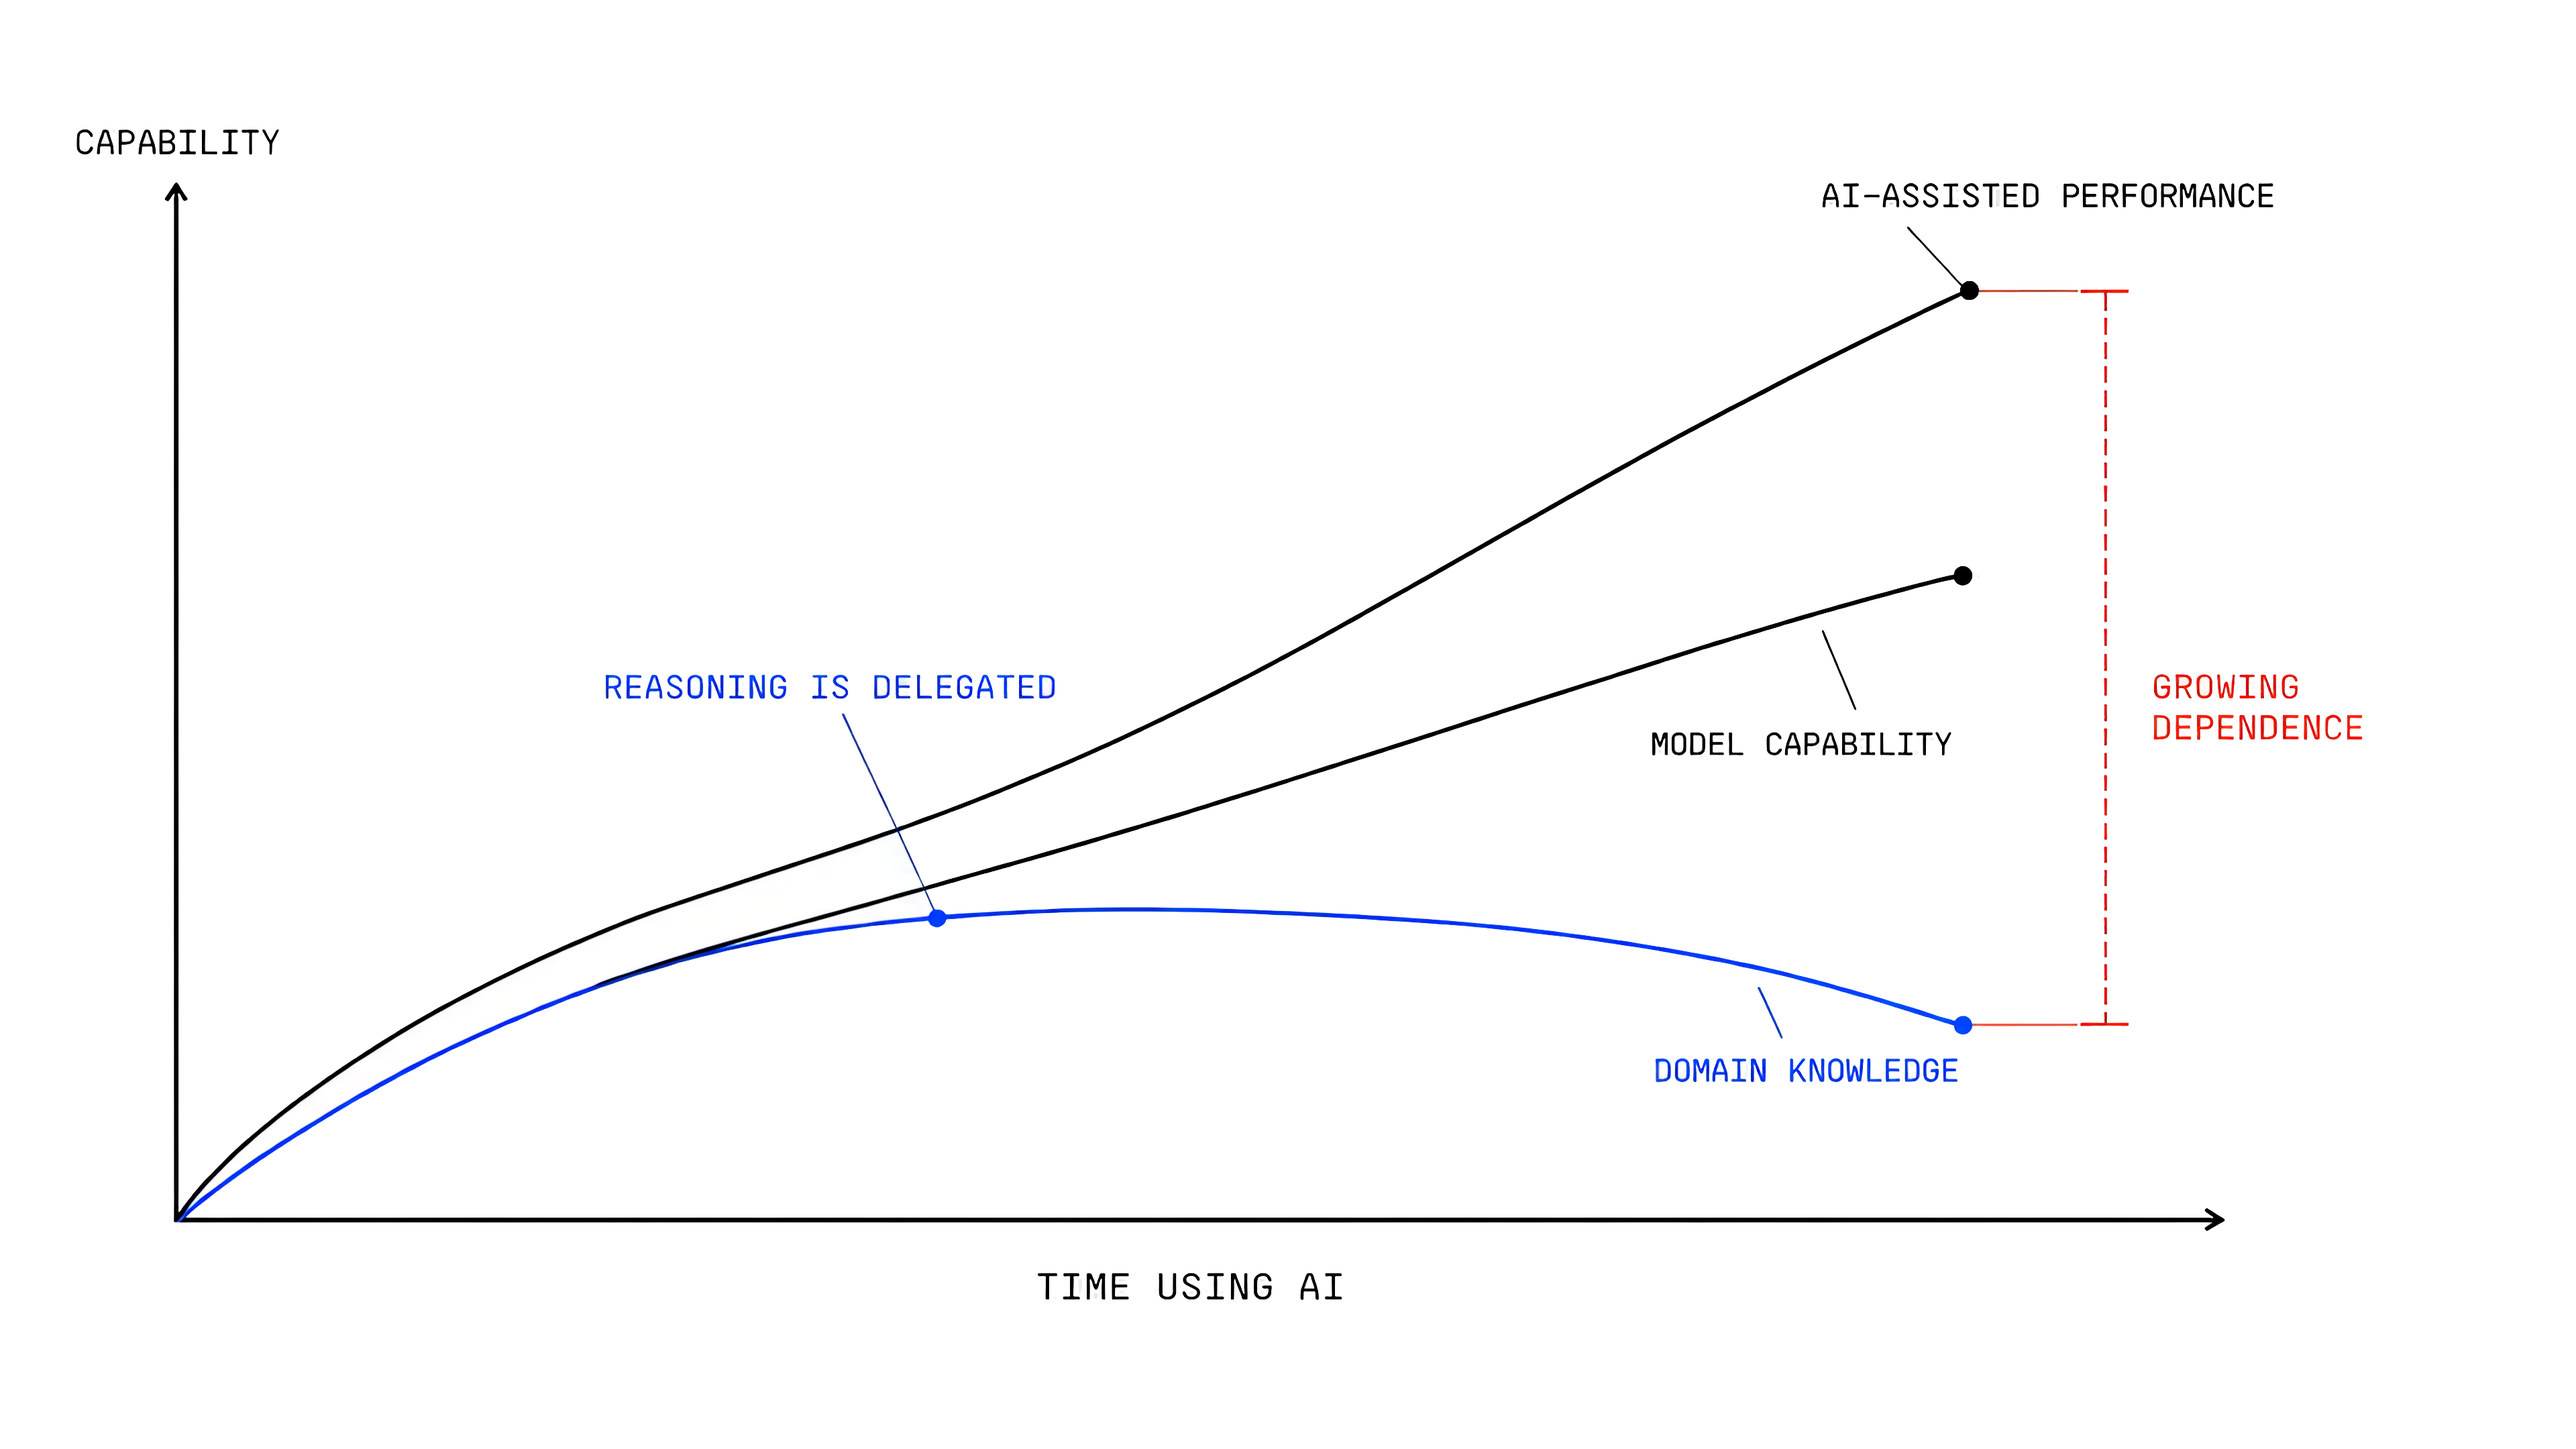
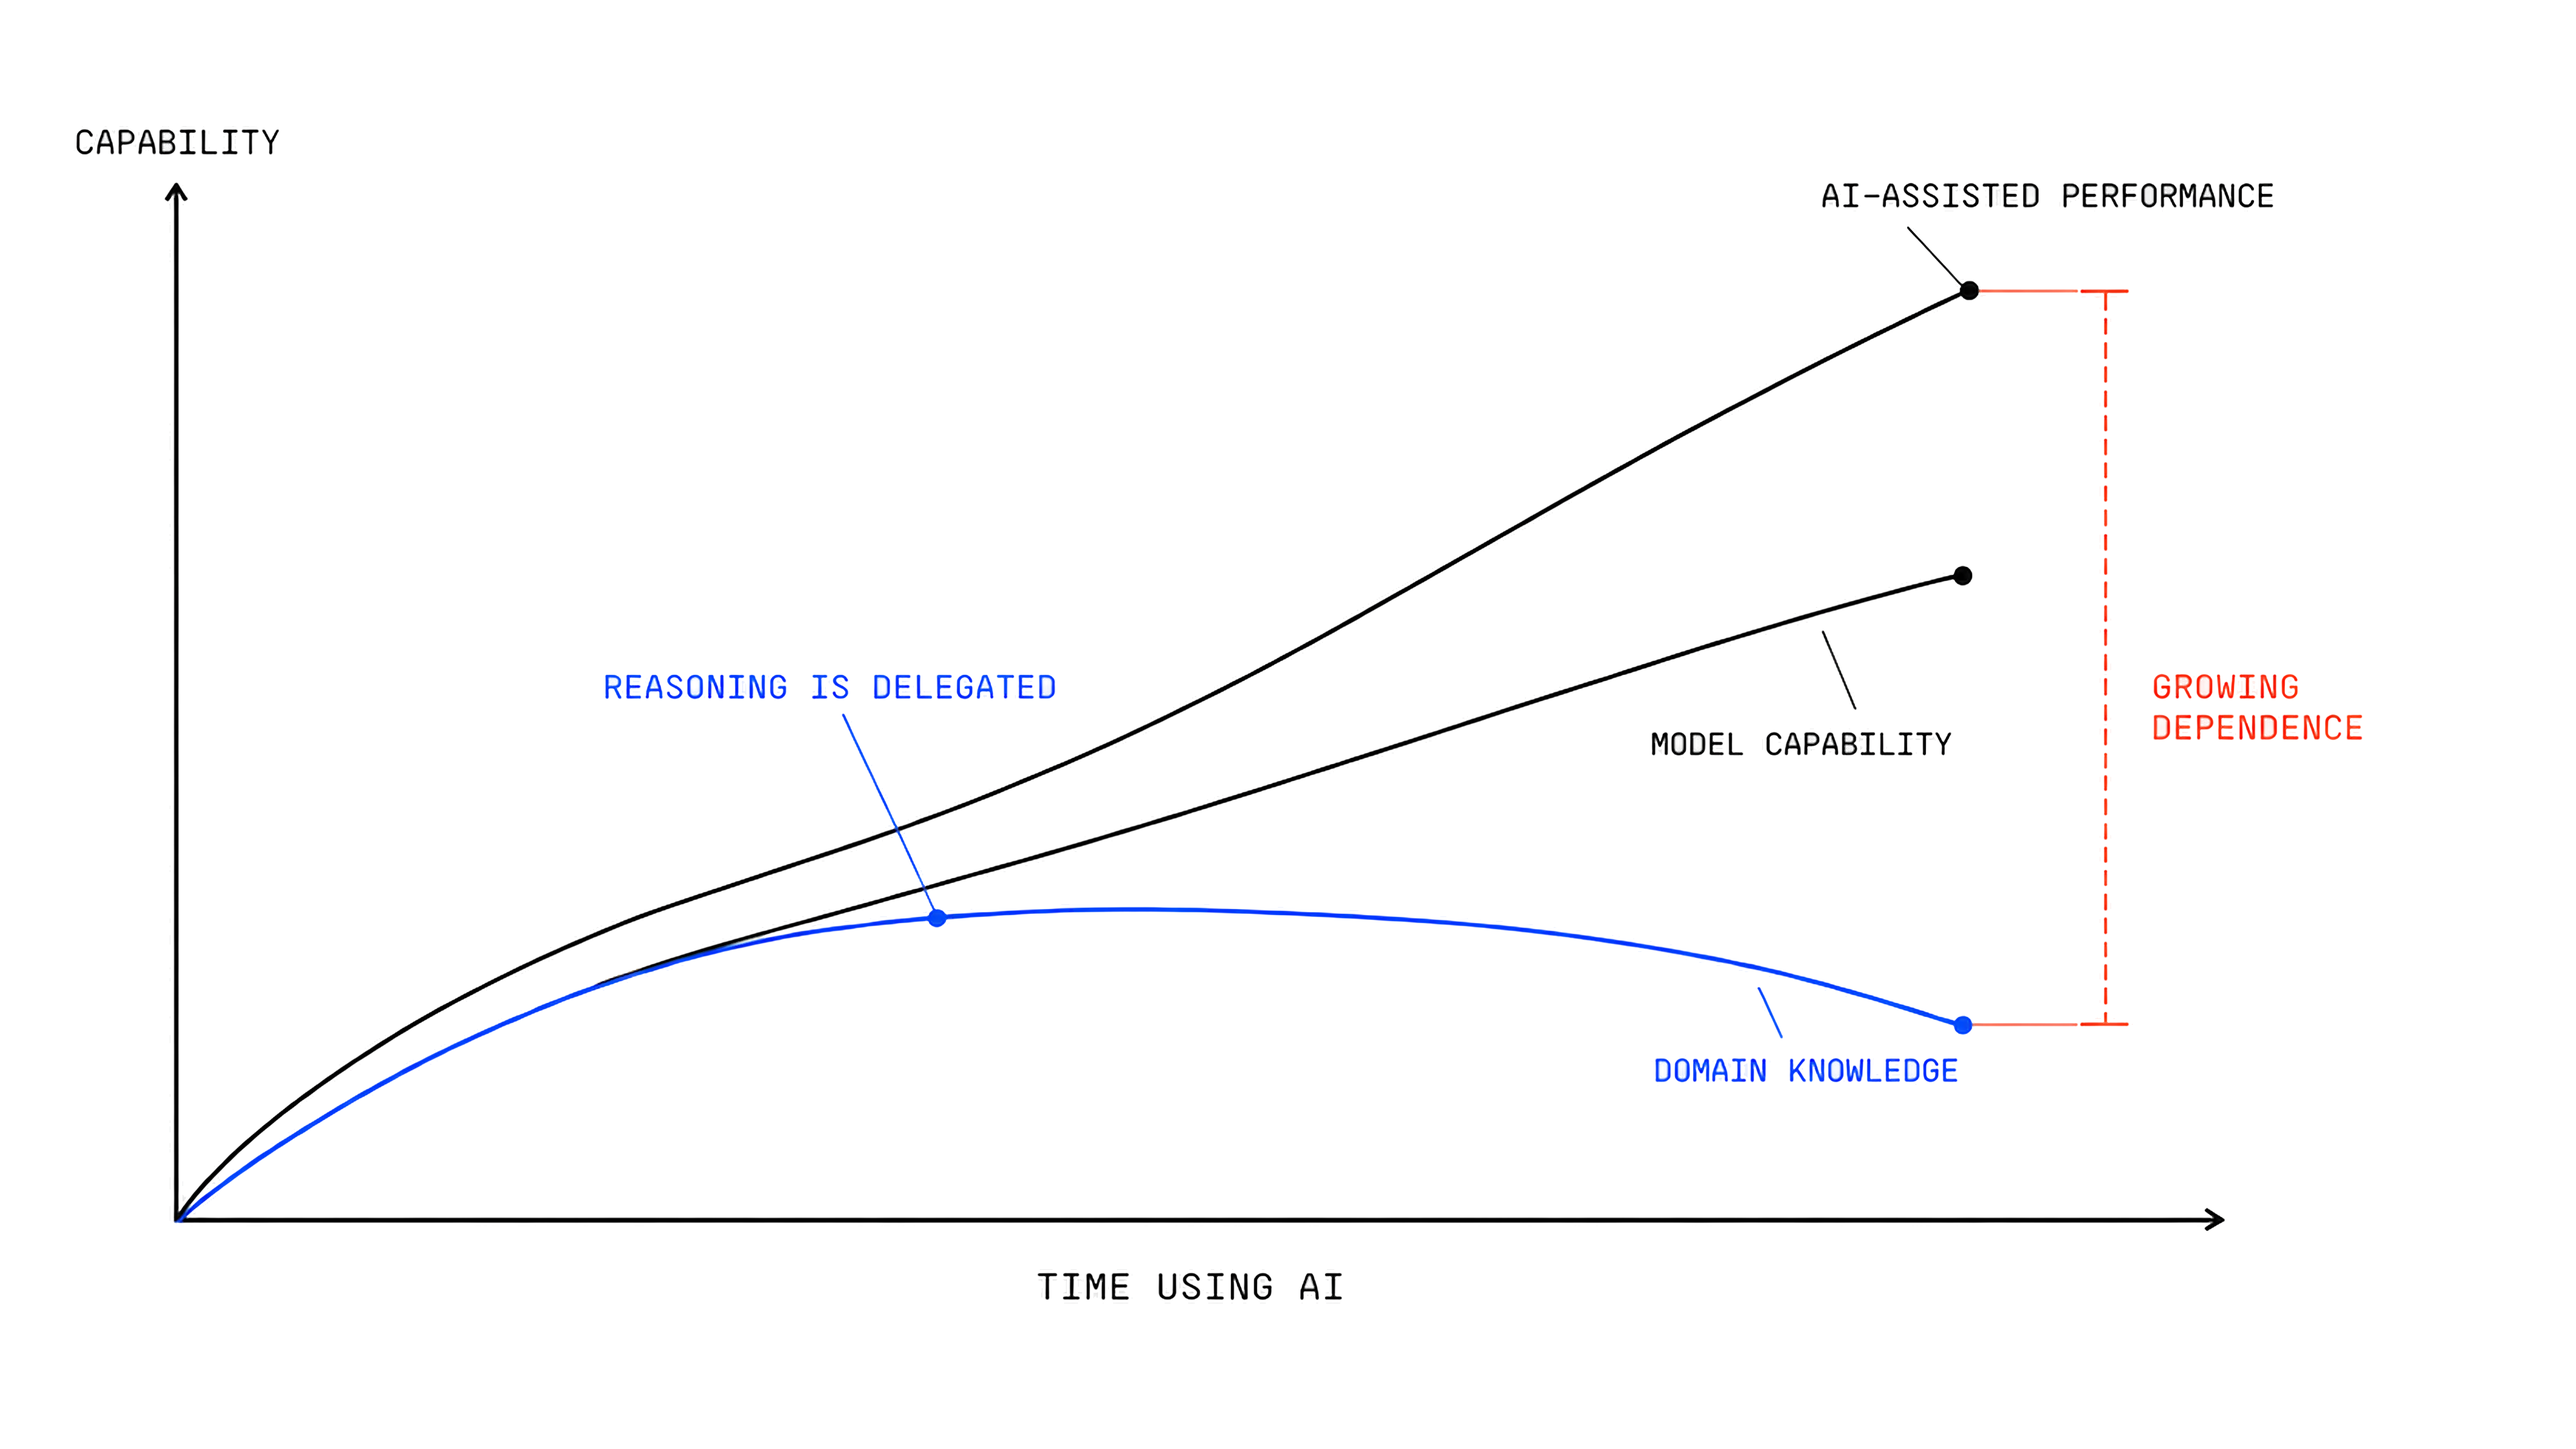
Fix enclosed background removal for dependence figure

diff --git a/scripts/remove-figure-background.py b/scripts/remove-figure-background.py
@@ -16,6 +16,7 @@ newer than its source.
 
     python3 scripts/remove-figure-background.py public/images/blog/<slug>/source
     python3 scripts/remove-figure-background.py path/to/one.png --tolerance 18
+    python3 scripts/remove-figure-background.py path/to/graph.png --seed 0.25,0.67
 """
 
 from __future__ import annotations
@@ -43,22 +44,40 @@ def sample_background(rgb: np.ndarray) -> np.ndarray:
     return colours[counts.argmax()].astype(np.int16)
 
 
-def flood_background(similar: np.ndarray) -> np.ndarray:
-    """Background-like pixels reachable from the border (4-connected)."""
+def flood_background(
+    similar: np.ndarray,
+) -> np.ndarray:
+    """Background-like pixels reachable from the border."""
+    height, width = similar.shape
+    seeds: list[tuple[int, int]] = []
+
+    for y in range(height):
+        for x in (0, width - 1):
+            if similar[y, x]:
+                seeds.append((y, x))
+    for x in range(width):
+        for y in (0, height - 1):
+            if similar[y, x]:
+                seeds.append((y, x))
+
+    return flood_regions(similar, seeds)
+
+
+def flood_regions(
+    similar: np.ndarray,
+    seeds: list[tuple[int, int]],
+) -> np.ndarray:
+    """Pixels connected to explicit seeds through a similarity mask."""
     height, width = similar.shape
     removed = np.zeros_like(similar, dtype=bool)
     queue: deque[tuple[int, int]] = deque()
 
-    for y in range(height):
-        for x in (0, width - 1):
-            if similar[y, x] and not removed[y, x]:
-                removed[y, x] = True
-                queue.append((y, x))
-    for x in range(width):
-        for y in (0, height - 1):
-            if similar[y, x] and not removed[y, x]:
-                removed[y, x] = True
-                queue.append((y, x))
+    for y, x in seeds:
+        if not similar[y, x]:
+            raise ValueError(f"seed {x},{y} is not within the canvas tolerance")
+        if not removed[y, x]:
+            removed[y, x] = True
+            queue.append((y, x))
 
     while queue:
         y, x = queue.popleft()
@@ -83,20 +102,29 @@ def neighbours(mask: np.ndarray) -> np.ndarray:
 def background_mask(
     rgb: np.ndarray,
     tolerance: int,
+    seeds: list[tuple[float, float]] | None = None,
 ) -> tuple[np.ndarray, np.ndarray, np.ndarray]:
     """Return the sampled canvas, colour distance, and border flood-fill mask."""
     background = sample_background(rgb)
     distance = np.abs(rgb.astype(np.int16) - background).max(axis=2)
+    height, width = distance.shape
+    pixel_seeds = [
+        (round(y * (height - 1)), round(x * (width - 1)))
+        for x, y in seeds or []
+    ]
     removed = flood_background(distance <= tolerance)
+    if pixel_seeds:
+        removed |= flood_regions(distance <= tolerance, pixel_seeds)
     return background, distance, removed
 
 
 def remove_background(
     image: Image.Image,
     tolerance: int,
+    seeds: list[tuple[float, float]] | None = None,
 ) -> Image.Image:
     rgb = np.array(image.convert("RGB"), dtype=np.uint8)
-    _, distance, removed = background_mask(rgb, tolerance)
+    _, distance, removed = background_mask(rgb, tolerance, seeds)
 
     alpha = np.where(removed, 0, 255).astype(np.uint8)
 
@@ -122,6 +150,17 @@ def collect(paths: list[Path]) -> list[Path]:
     return sources
 
 
+def normalized_seed(value: str) -> tuple[float, float]:
+    """Parse a normalized X,Y seed that works across source resolutions."""
+    try:
+        x, y = (float(part) for part in value.split(",", 1))
+    except (TypeError, ValueError) as error:
+        raise argparse.ArgumentTypeError("must look like 0.25,0.67") from error
+    if not (0 <= x <= 1 and 0 <= y <= 1):
+        raise argparse.ArgumentTypeError("coordinates must be between 0 and 1")
+    return x, y
+
+
 def output_for(source: Path, out_dir: Path | None) -> Path:
     """Generated art sits one level up from `source/`, under the same name."""
     if out_dir is not None:
@@ -135,6 +174,13 @@ def main() -> None:
     parser = argparse.ArgumentParser(description=__doc__)
     parser.add_argument("paths", nargs="+", type=Path, help="PNG files, or directories of them")
     parser.add_argument("--tolerance", type=int, default=DEFAULT_TOLERANCE)
+    parser.add_argument(
+        "--seed",
+        action="append",
+        default=[],
+        type=normalized_seed,
+        help="normalized X,Y seed for an enclosed canvas region; repeatable",
+    )
     parser.add_argument("--out-dir", type=Path, default=None)
     parser.add_argument("--force", action="store_true", help="Rebuild art that is already current")
     args = parser.parse_args()
@@ -149,7 +195,11 @@ def main() -> None:
             print(f"{source.name}: current")
             continue
 
-        result = remove_background(Image.open(source), args.tolerance)
+        result = remove_background(
+            Image.open(source),
+            args.tolerance,
+            args.seed,
+        )
         target.parent.mkdir(parents=True, exist_ok=True)
         result.save(target)
 

diff --git a/scripts/upscale-diagrams.py b/scripts/upscale-diagrams.py
@@ -257,10 +257,15 @@ def edge_unmix(
     image: Image.Image,
     tolerance: int,
     background: ModuleType,
+    seeds: list[tuple[float, float]] | None = None,
 ) -> Image.Image:
     """Apply the upscale-only edge pass using the shared flood-fill mask."""
     rgb = np.array(image.convert("RGB"), dtype=np.uint8)
-    canvas, distance, removed = background.background_mask(rgb, tolerance)
+    canvas, distance, removed = background.background_mask(
+        rgb,
+        tolerance,
+        seeds,
+    )
     alpha = np.where(removed, 0, 255).astype(np.uint8)
     rgb, alpha = unmix_edges(rgb, canvas, distance, removed, alpha, tolerance)
     return Image.fromarray(np.dstack([rgb, alpha]), mode="RGBA")
@@ -332,6 +337,7 @@ def process(source: Path, args: argparse.Namespace, background: ModuleType) -> N
         fitted,
         args.tolerance,
         background,
+        args.seed,
     )
     result.save(transparent)
 
@@ -354,6 +360,12 @@ def parser() -> argparse.ArgumentParser:
     parse.add_argument("--target", type=target_size, default=DEFAULT_TARGET)
     parse.add_argument("--paper", default=DEFAULT_PAPER)
     parse.add_argument("--tolerance", type=int, default=None)
+    parse.add_argument(
+        "--seed",
+        action="append",
+        default=[],
+        help="normalized X,Y seed for an enclosed canvas region; repeatable",
+    )
     parse.add_argument("--force", action="store_true", help="Replace existing provider outputs")
     parse.add_argument("--dry-run", action="store_true", help="Print work without API calls")
     return parse
@@ -362,6 +374,7 @@ def parser() -> argparse.ArgumentParser:
 def main() -> None:
     args = parser().parse_args()
     background = load_background_module()
+    args.seed = [background.normalized_seed(seed) for seed in args.seed]
     if args.tolerance is None:
         args.tolerance = background.DEFAULT_TOLERANCE
 
